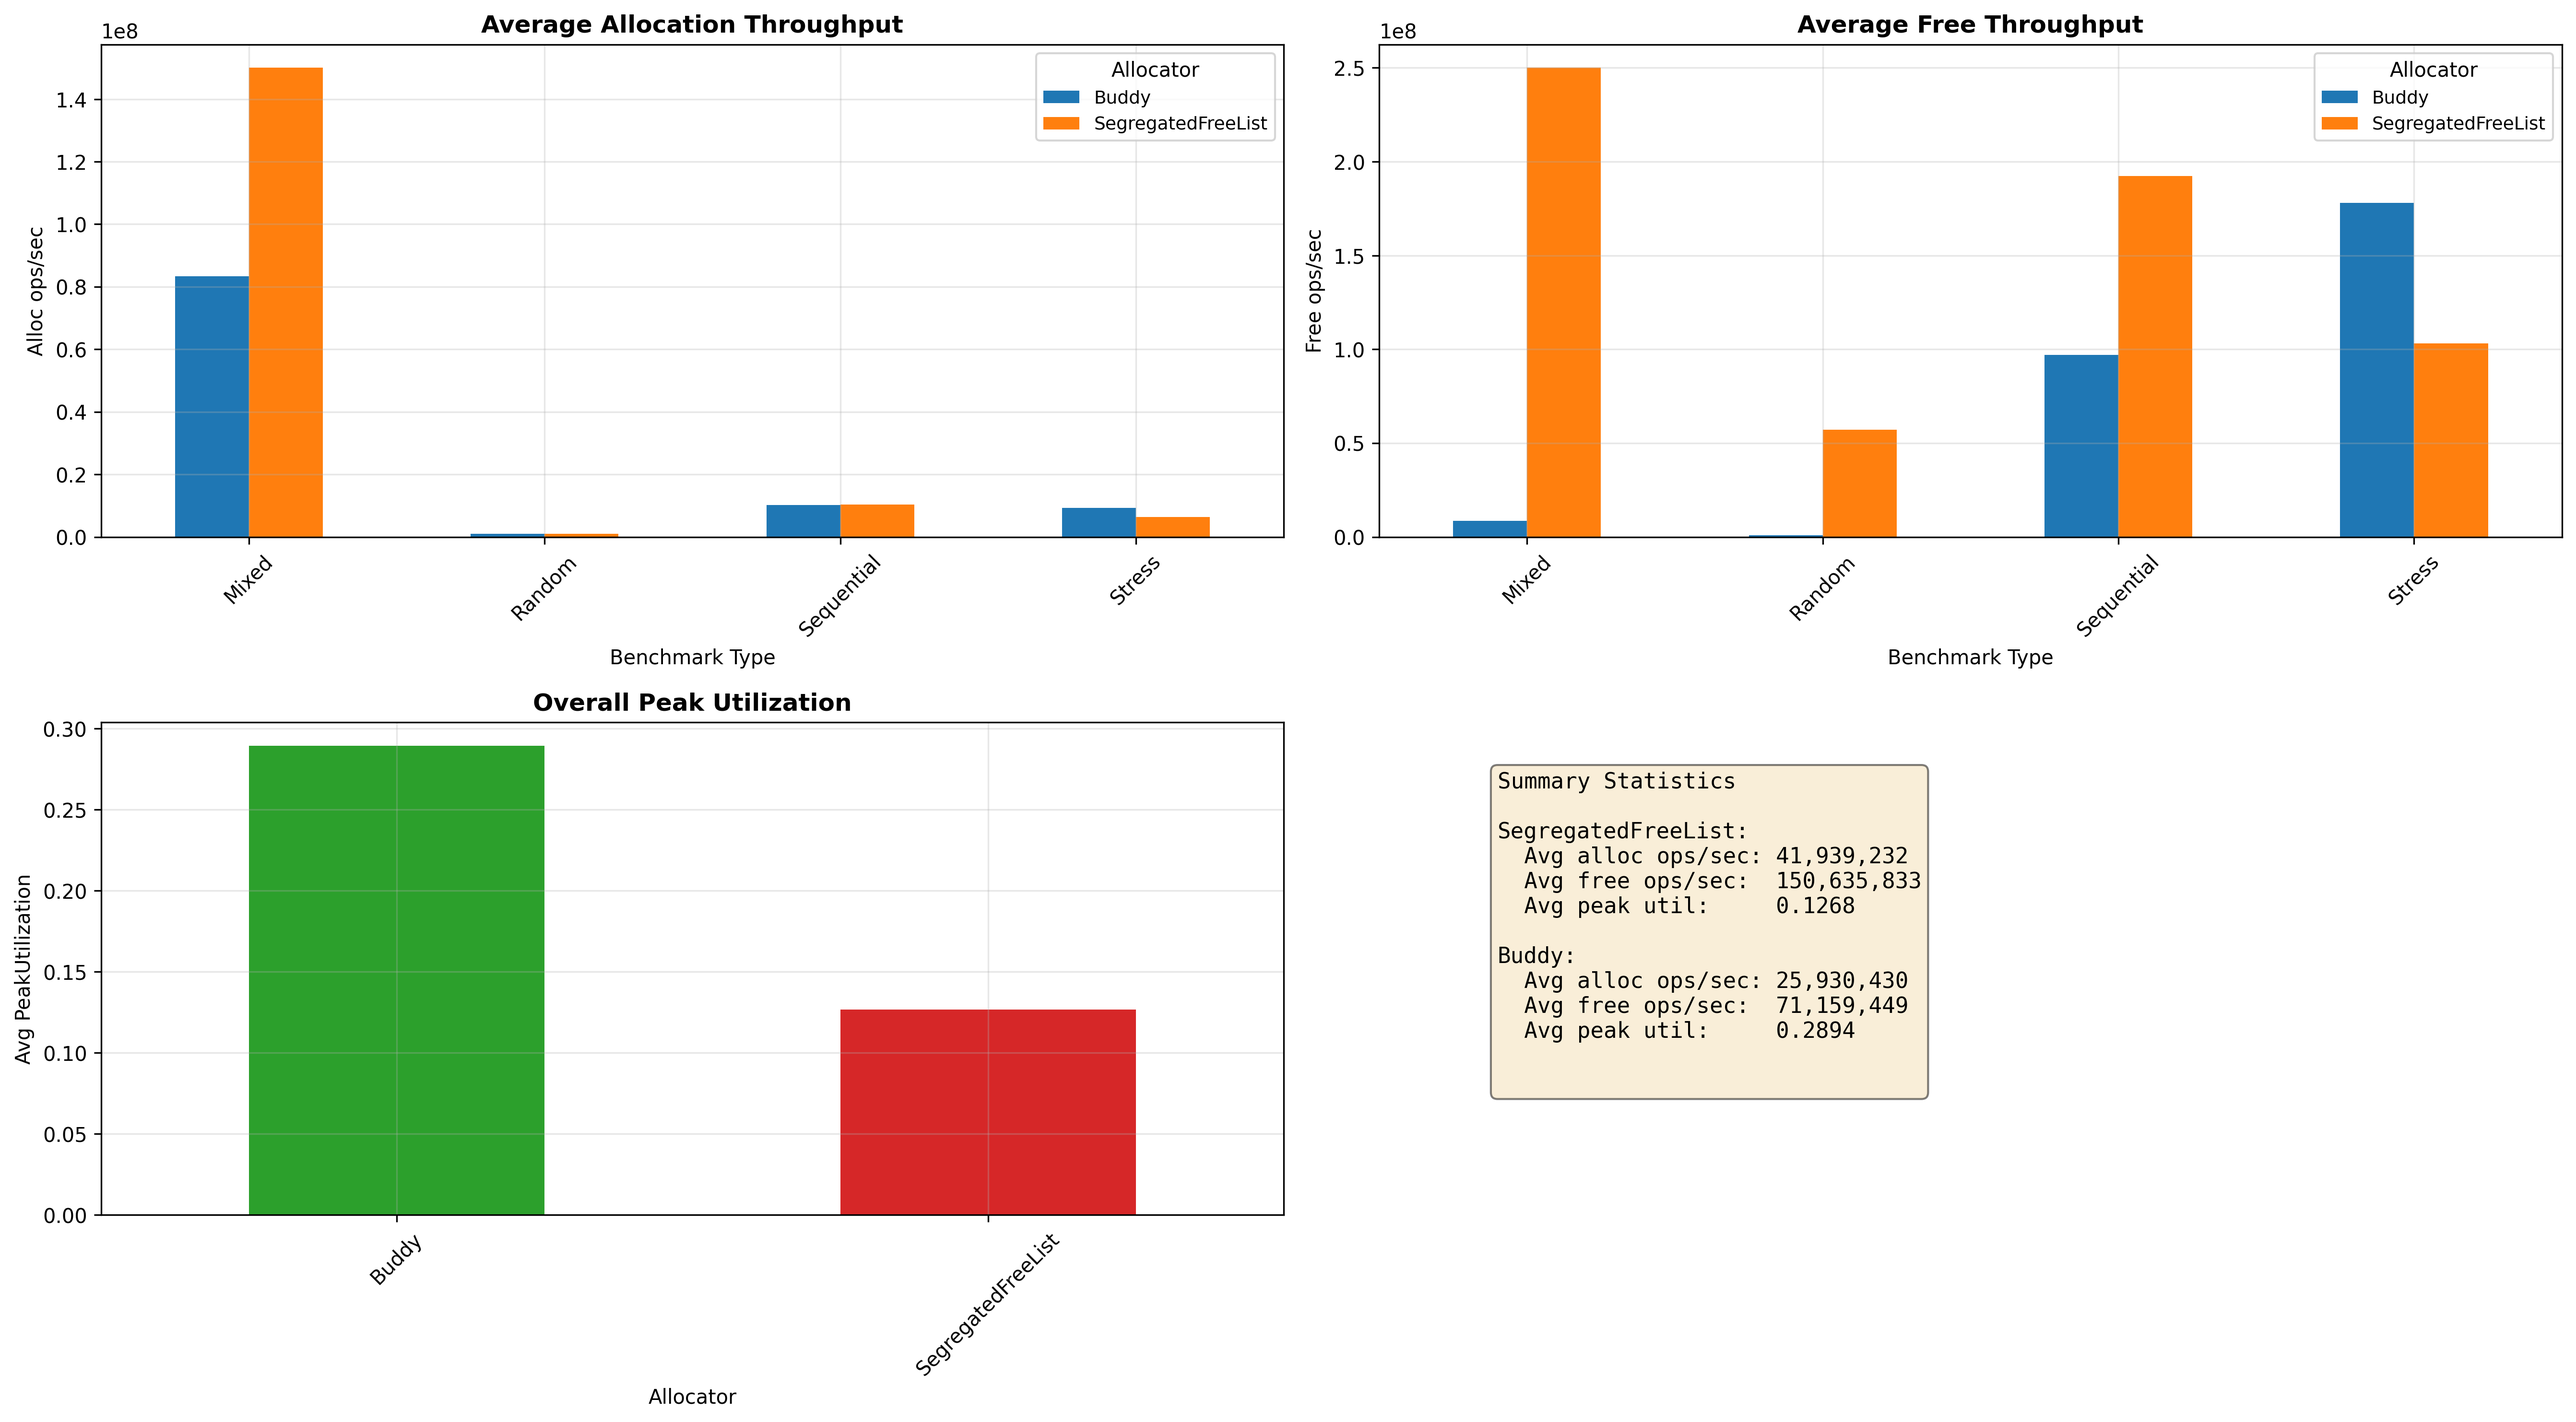
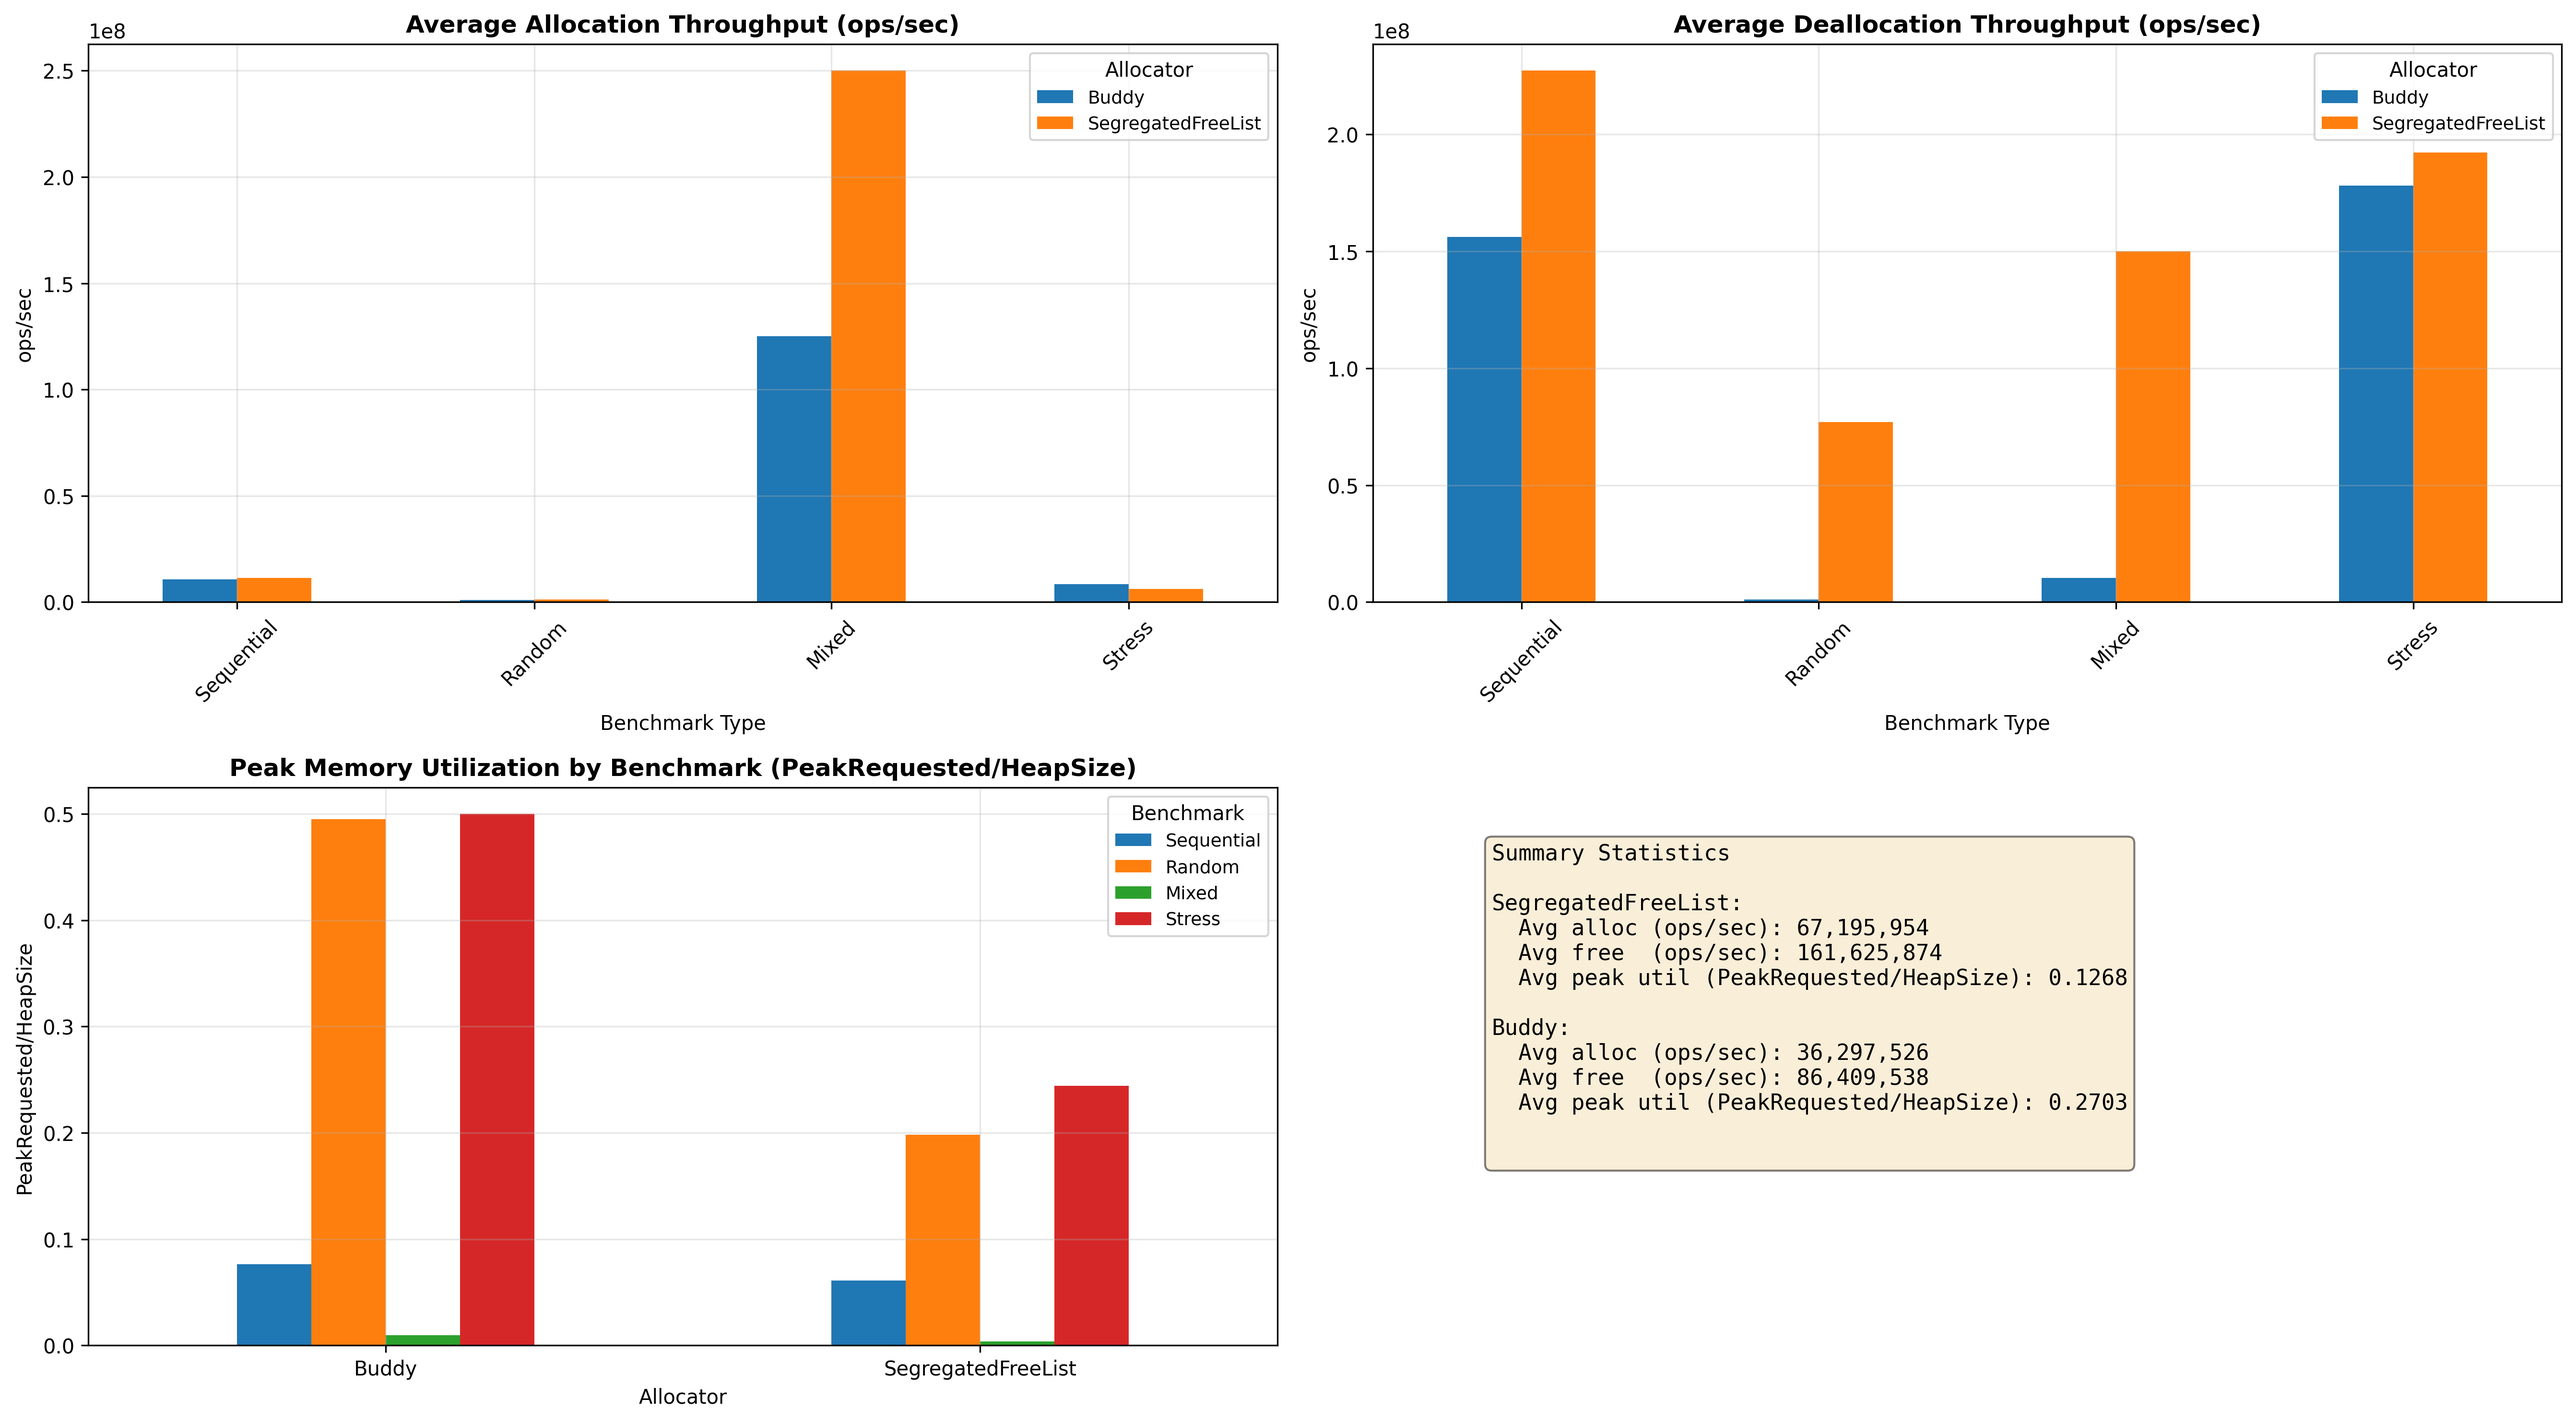
update bench graphs

diff --git a/mem-allocators/scripts/plot_results.py b/mem-allocators/scripts/plot_results.py
@@ -13,6 +13,87 @@ import matplotlib.pyplot as plt
 import matplotlib
 matplotlib.use('Agg')
 
+
+def _ordered_benchmarks(series: pd.Series) -> list[str]:
+    """Вернуть список сценариев (Benchmark) в стабильном порядке"""
+
+    preferred = ['Sequential', 'Random', 'Mixed', 'Stress']
+    unique = list(pd.unique(series.dropna()))
+    if all(b in unique for b in preferred):
+        return preferred
+    return sorted(unique)
+
+
+def _sanity_check_dataframe(df: pd.DataFrame) -> None:
+    """Проверки на типичные проблемы с данными
+
+    Идея: если значения перепутаны при парсинге/выводе CSV, это часто проявляется как
+    несоответствие между (AllocOps, AllocTime_us) и AllocOpsPerSec (и аналогично для free)
+    Также дополнительно подсвечиваем ситуацию, когда число успешных операций AllocOps
+    заметно отличается между аллокаторами в одном сценарии
+    """
+
+    # 1) Пересчитываем ops/sec из ops и времени и сверяемся с колонкой
+    def _rel_diff(a: float, b: float) -> float:
+        denom = max(abs(a), abs(b), 1e-12)
+        return abs(a - b) / denom
+
+    for idx, row in df.iterrows():
+        try:
+            alloc_time_s = float(row['AllocTime_us']) * 1e-6
+            free_time_s = float(row['FreeTime_us']) * 1e-6
+            alloc_ops = float(row['AllocOps'])
+            free_ops = float(row['FreeOps'])
+
+            calc_alloc = (alloc_ops / alloc_time_s) if alloc_time_s > 0 else float('inf')
+            calc_free = (free_ops / free_time_s) if free_time_s > 0 else float('inf')
+            file_alloc = float(row['AllocOpsPerSec'])
+            file_free = float(row['FreeOpsPerSec'])
+
+            if _rel_diff(calc_alloc, file_alloc) > 0.01:
+                print(
+                    "Warning: AllocOpsPerSec mismatch for "
+                    f"Allocator={row['Allocator']} Benchmark={row['Benchmark']}: "
+                    f"csv={file_alloc:.2f}, recomputed={calc_alloc:.2f}"
+                )
+            if _rel_diff(calc_free, file_free) > 0.01:
+                print(
+                    "Warning: FreeOpsPerSec mismatch for "
+                    f"Allocator={row['Allocator']} Benchmark={row['Benchmark']}: "
+                    f"csv={file_free:.2f}, recomputed={calc_free:.2f}"
+                )
+
+            # 2) Слишком короткие измерения почти всегда дают шумные ops/sec
+            if row['Benchmark'] in ['Sequential', 'Random', 'Mixed', 'Stress']:
+                if alloc_time_s < 1e-4:  # < 0.1 ms
+                    print(
+                        "Warning: Very short allocation timing (<0.1ms) for "
+                        f"Allocator={row['Allocator']} Benchmark={row['Benchmark']}: "
+                        f"AllocTime_us={row['AllocTime_us']}"
+                    )
+                if free_time_s < 1e-4:
+                    print(
+                        "Warning: Very short free timing (<0.1ms) for "
+                        f"Allocator={row['Allocator']} Benchmark={row['Benchmark']}: "
+                        f"FreeTime_us={row['FreeTime_us']}"
+                    )
+        except Exception:
+            # Не мешаем построению графиков из-за проверки
+            continue
+
+    # 3) Подсветить различия в количестве успешных операций между аллокаторами в одном сценарии
+    if 'Allocator' in df.columns and 'Benchmark' in df.columns and 'AllocOps' in df.columns:
+        by_bench = df.groupby('Benchmark')['AllocOps'].nunique(dropna=True)
+        diffs = by_bench[by_bench > 1]
+        if not diffs.empty:
+            for bench in diffs.index.tolist():
+                rows = df[df['Benchmark'] == bench][['Allocator', 'AllocOps']]
+                details = ", ".join([f"{r['Allocator']}={int(r['AllocOps'])}" for _, r in rows.iterrows()])
+                print(
+                    "Warning: Different successful AllocOps between allocators for "
+                    f"Benchmark={bench}: {details}"
+                )
+
 def plot_results(csv_file, output_file=None):
     """Построить графики по результатам бенчмарка из CSV-файла"""
     
@@ -27,6 +108,8 @@ def plot_results(csv_file, output_file=None):
     except Exception as e:
         print(f"Error reading CSV file: {e}")
         return False
+
+    _sanity_check_dataframe(df)
     
     # Проверяем наличие обязательных столбцов
     required_cols = ['Allocator', 'Benchmark', 'AllocOpsPerSec', 'FreeOpsPerSec', 'PeakUtilization']
@@ -37,31 +120,38 @@ def plot_results(csv_file, output_file=None):
     # Создаём фигуру с подграфиками
     fig, axs = plt.subplots(1, 3, figsize=(18, 6))
     ax1, ax2, ax3 = axs
+
+    benchmark_order = _ordered_benchmarks(df['Benchmark'])
+    df = df.copy()
+    df['Benchmark'] = pd.Categorical(df['Benchmark'], categories=benchmark_order, ordered=True)
     
     # График 1: пропускная способность выделения (операций/сек) по сценариям
     pivot_data = df.pivot(index='Benchmark', columns='Allocator', values='AllocOpsPerSec')
     pivot_data.plot(kind='bar', ax=ax1, rot=45)
     ax1.set_title('Allocation Throughput (ops/sec)', fontsize=14, fontweight='bold')
     ax1.set_xlabel('Benchmark Type', fontsize=12)
-    ax1.set_ylabel('Alloc ops/sec', fontsize=12)
+    ax1.set_ylabel('ops/sec', fontsize=12)
     ax1.legend(title='Allocator', fontsize=10)
     ax1.grid(True, alpha=0.3)
     
     # График 2: пропускная способность освобождения (операций/сек) по сценариям
     pivot_free = df.pivot(index='Benchmark', columns='Allocator', values='FreeOpsPerSec')
     pivot_free.plot(kind='bar', ax=ax2, rot=45)
-    ax2.set_title('Free Throughput (ops/sec)', fontsize=14, fontweight='bold')
+    ax2.set_title('Deallocation Throughput (ops/sec)', fontsize=14, fontweight='bold')
     ax2.set_xlabel('Benchmark Type', fontsize=12)
-    ax2.set_ylabel('Free ops/sec', fontsize=12)
+    ax2.set_ylabel('ops/sec', fontsize=12)
     ax2.legend(title='Allocator', fontsize=10)
     ax2.grid(True, alpha=0.3)
 
-    pivot_util = df.pivot(index='Benchmark', columns='Allocator', values='PeakUtilization')
-    pivot_util.plot(kind='bar', ax=ax3, rot=45)
-    ax3.set_title('Peak Utilization Factor', fontsize=14, fontweight='bold')
-    ax3.set_xlabel('Benchmark Type', fontsize=12)
-    ax3.set_ylabel('PeakRequested / HeapSize', fontsize=12)
-    ax3.legend(title='Allocator', fontsize=10)
+    # График 3: PeakUtilization отдельно по каждому сценарию
+    # Требуемый вид: 4 столбца на аллокатор (по сценариям)
+    pivot_util = df.pivot_table(index='Allocator', columns='Benchmark', values='PeakUtilization', aggfunc='mean', observed=False)
+    pivot_util = pivot_util.reindex(columns=benchmark_order)
+    pivot_util.plot(kind='bar', ax=ax3, rot=0)
+    ax3.set_title('Peak Memory Utilization (PeakRequested/HeapSize)', fontsize=14, fontweight='bold')
+    ax3.set_xlabel('Allocator', fontsize=12)
+    ax3.set_ylabel('PeakRequested/HeapSize', fontsize=12)
+    ax3.legend(title='Benchmark', fontsize=10)
     ax3.grid(True, alpha=0.3)
     
     # Подгоняем разметку
@@ -100,6 +190,10 @@ def plot_comparison(files, output_file='comparison.png'):
     
     # Объединяем данные
     combined = pd.concat(all_data, ignore_index=True)
+
+    benchmark_order = _ordered_benchmarks(combined['Benchmark'])
+    combined = combined.copy()
+    combined['Benchmark'] = pd.Categorical(combined['Benchmark'], categories=benchmark_order, ordered=True)
     
     # Создаём общий сравнительный график
     fig = plt.figure(figsize=(18, 10))
@@ -110,12 +204,13 @@ def plot_comparison(files, output_file='comparison.png'):
         index='Benchmark', 
         columns='Allocator', 
         values='AllocOpsPerSec', 
-        aggfunc='mean'
+        aggfunc='mean',
+        observed=False
     )
     pivot_ops.plot(kind='bar', ax=ax1, rot=45)
-    ax1.set_title('Average Allocation Throughput', fontsize=12, fontweight='bold')
+    ax1.set_title('Average Allocation Throughput (ops/sec)', fontsize=12, fontweight='bold')
     ax1.set_xlabel('Benchmark Type')
-    ax1.set_ylabel('Alloc ops/sec')
+    ax1.set_ylabel('ops/sec')
     ax1.legend(title='Allocator', fontsize=9)
     ax1.grid(True, alpha=0.3)
     
@@ -125,22 +220,31 @@ def plot_comparison(files, output_file='comparison.png'):
         index='Benchmark', 
         columns='Allocator', 
         values='FreeOpsPerSec', 
-        aggfunc='mean'
+        aggfunc='mean',
+        observed=False
     )
     pivot_time.plot(kind='bar', ax=ax2, rot=45)
-    ax2.set_title('Average Free Throughput', fontsize=12, fontweight='bold')
+    ax2.set_title('Average Deallocation Throughput (ops/sec)', fontsize=12, fontweight='bold')
     ax2.set_xlabel('Benchmark Type')
-    ax2.set_ylabel('Free ops/sec')
+    ax2.set_ylabel('ops/sec')
     ax2.legend(title='Allocator', fontsize=9)
     ax2.grid(True, alpha=0.3)
     
-    # График 3: утилизация памяти по аллокатору
+    # График 3: PeakUtilization по каждому сценарию (4 столбца на аллокатор)
     ax3 = plt.subplot(2, 2, 3)
-    allocator_avg = combined.groupby('Allocator')['PeakUtilization'].mean()
-    allocator_avg.plot(kind='bar', ax=ax3, rot=45, color=['#2ca02c', '#d62728'])
-    ax3.set_title('Overall Peak Utilization', fontsize=12, fontweight='bold')
+    pivot_util = combined.pivot_table(
+        index='Allocator',
+        columns='Benchmark',
+        values='PeakUtilization',
+        aggfunc='mean',
+        observed=False
+    )
+    pivot_util = pivot_util.reindex(columns=benchmark_order)
+    pivot_util.plot(kind='bar', ax=ax3, rot=0)
+    ax3.set_title('Peak Memory Utilization by Benchmark (PeakRequested/HeapSize)', fontsize=12, fontweight='bold')
     ax3.set_xlabel('Allocator')
-    ax3.set_ylabel('Avg PeakUtilization')
+    ax3.set_ylabel('PeakRequested/HeapSize')
+    ax3.legend(title='Benchmark', fontsize=9)
     ax3.grid(True, alpha=0.3)
     
     # График 4: краткая сводка
@@ -155,9 +259,9 @@ def plot_comparison(files, output_file='comparison.png'):
         avg_free = alloc_data['FreeOpsPerSec'].mean()
         avg_util = alloc_data['PeakUtilization'].mean()
         summary_text += f"{allocator}:\n"
-        summary_text += f"  Avg alloc ops/sec: {avg_alloc:,.0f}\n"
-        summary_text += f"  Avg free ops/sec:  {avg_free:,.0f}\n"
-        summary_text += f"  Avg peak util:     {avg_util:.4f}\n\n"
+        summary_text += f"  Avg alloc (ops/sec): {avg_alloc:,.0f}\n"
+        summary_text += f"  Avg free  (ops/sec): {avg_free:,.0f}\n"
+        summary_text += f"  Avg peak util (PeakRequested/HeapSize): {avg_util:.4f}\n\n"
     
     ax4.text(0.1, 0.9, summary_text, transform=ax4.transAxes,
              fontsize=11, verticalalignment='top', family='monospace',
